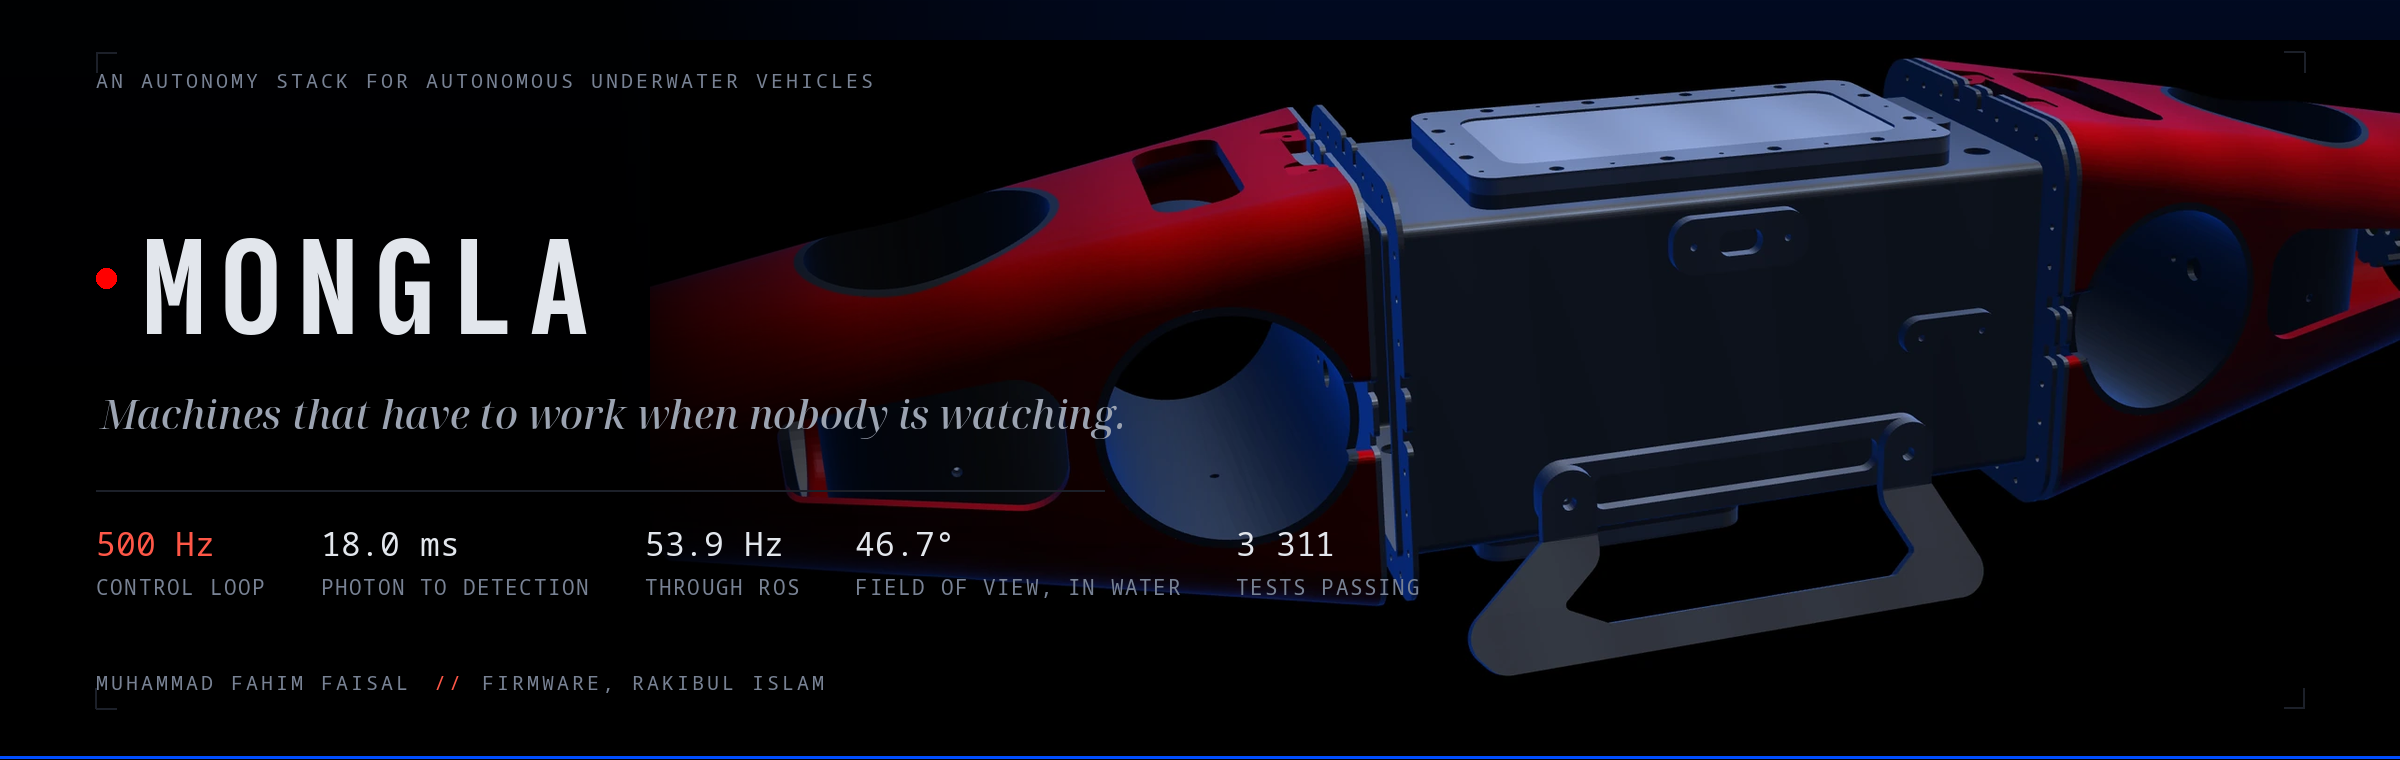
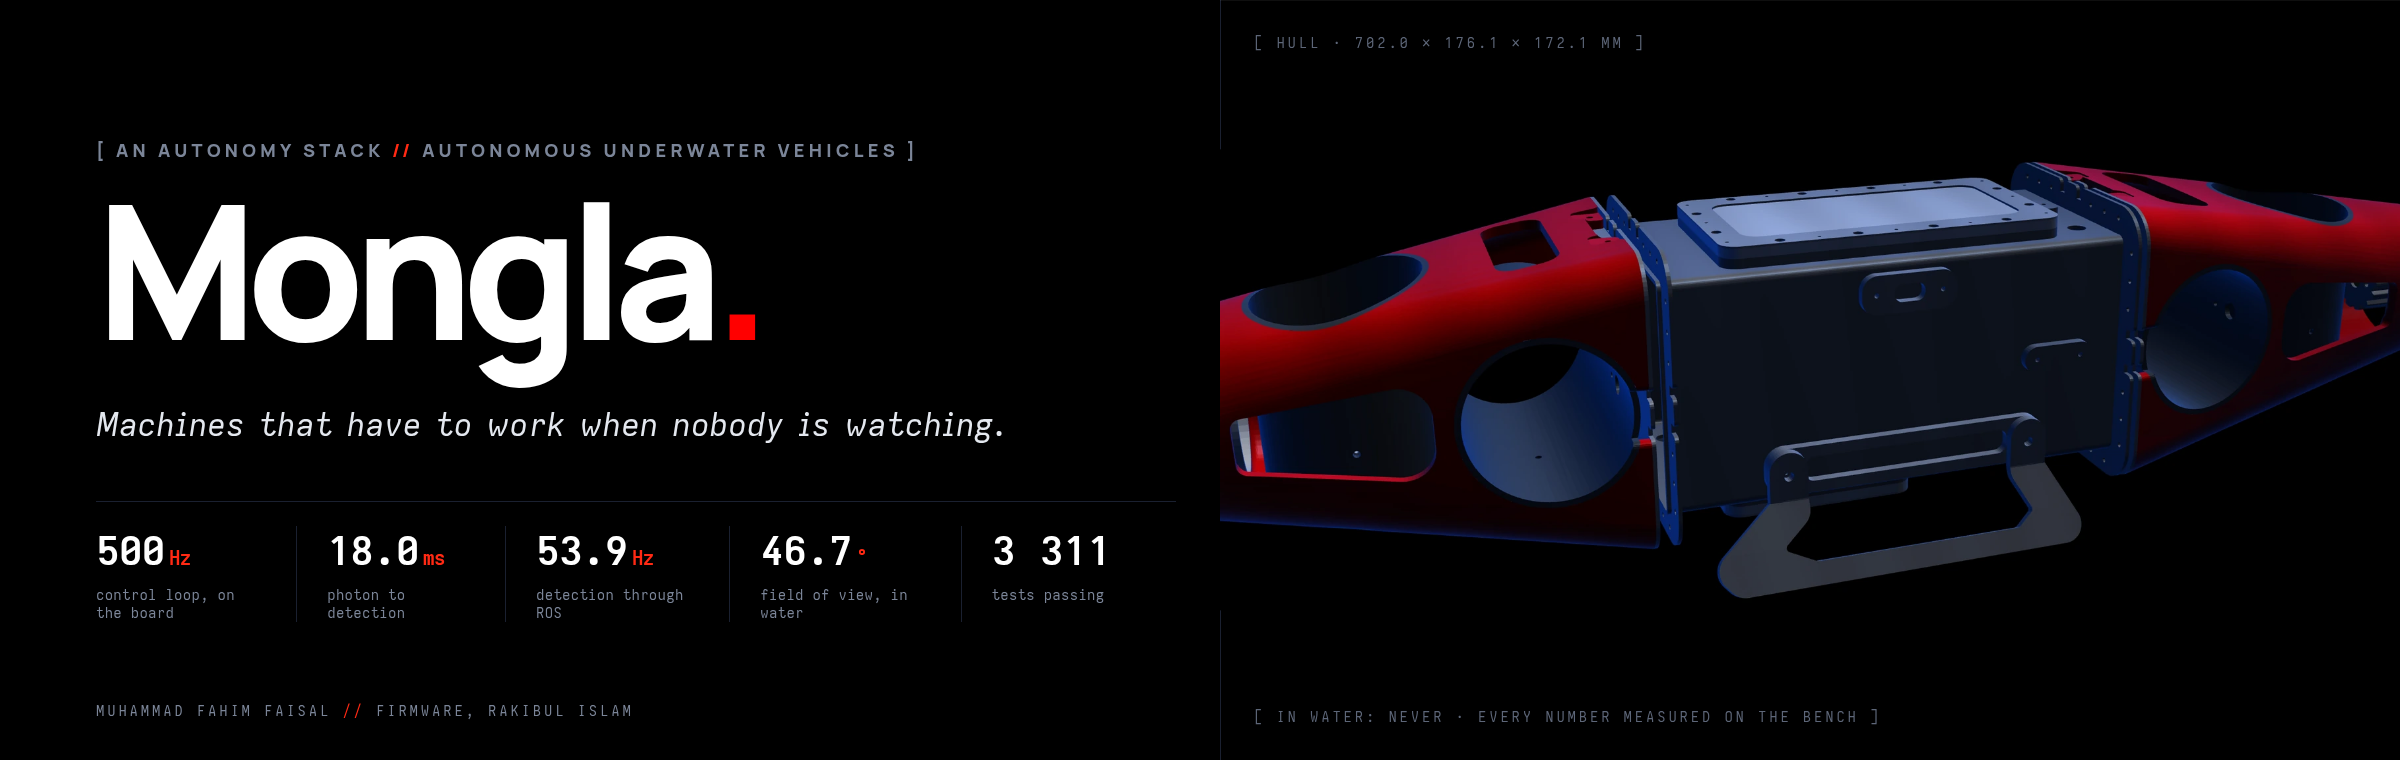
fix(site): the flagship code sample used an axis the board refuses
The mission-language section's example passed depth=0 to vision.align. On the
SROT backend a depth-setpoint axis is refused (vision_verbs.py:350-360) and the
DSL turns that refusal into VisionResult(False, 'FAILED') — so the one code
sample a reader copies would have returned FAILED instantly on the real
vehicle. It now centres on lat and yaw, and says in a line beneath it how the
board runs it and what a refused axis comes back as.

Beside it, what actually comes back: a frame with the signed pixel offset
drawn from centre, and the six outcome codes, FAILED among them — refused or
errored, never raised.

New README banner, rendered from HTML by headless Chrome instead of hand-placed
in PIL: the real hull in a true-black bay, the site's own faces and bracketed
labels, and a light variant for GitHub light mode.

diff --git a/docs/index.html b/docs/index.html
@@ -921,9 +921,11 @@
   <p class="lede col quiet">One action, thirty verbs, two vision primitives. The vision verbs never
     raise — they return where and how they finished, so a mission branches on reality instead of on
     an exception.</p>
+  <div class="split">
+  <div>
   <pre><span class="c"># hold station on the target, then fire mid-hold — still correcting</span>
 <span class="k">res</span> = mongla.vision.align(
-    <span class="s">'hole'</span>, lat=<span class="s">0</span>, depth=<span class="s">0</span>,   <span class="c"># signed pixel offsets from frame centre</span>
+    <span class="s">'hole'</span>, lat=<span class="s">0</span>, yaw=<span class="s">0</span>,     <span class="c"># centre it: signed px from frame centre</span>
     fwd=<span class="s">62</span>, fwd_mode=<span class="s">'area'</span>,  <span class="c"># and hold this standoff</span>
     hold=<span class="s">4.0</span>, fire=<span class="s">[1, 2]</span>,    <span class="c"># two shots, spaced, each gated on a NEW frame</span>
     lock_on=<span class="k">True</span>, brake=<span class="k">False</span>,
@@ -933,6 +935,28 @@
     <span class="k">return</span> search_pattern(mongla)
 <span class="k">if</span> res.x_px &gt; <span class="s">0</span>:              <span class="c"># it ended right of centre, so recover right</span>
     mongla.move_right(duration=<span class="s">0.6</span>)</pre>
+  <p class="quiet" style="font-size:var(--fs-caption);margin-top:10px">On the board this runs as streamed <code>MANUAL_CONTROL</code> in STABILIZE; an axis that would move the depth setpoint is refused, and comes back as <code>FAILED</code> rather than an exception.</p>
+  </div>
+  <figure class="result" aria-label="What a vision verb returns">
+    <span class="silk silk--b">what comes back · VisionResult</span>
+    <div class="frame">
+      <i class="cx"></i><i class="cy"></i>
+      <b class="box"></b>
+      <u class="dx"></u><em class="lab">x_px = +62</em>
+    </div>
+    <p class="result__k">Signed pixels from frame <strong>centre</strong> at the last frame the
+      target was seen: +x right, +y below. <code>NaN</code> if it was never seen — which is why
+      <code>saw_target</code> is read first.</p>
+    <ol class="codes">
+      <li class="ok"><b>ALIGNED</b>goal reached</li>
+      <li><b>LOST</b>seen, then gone</li>
+      <li><b>TIMEOUT</b>out of time</li>
+      <li><b>NO_CAMERA</b>nothing to look with</li>
+      <li><b>ABORTED</b>stopped on purpose</li>
+      <li class="bad"><b>FAILED</b>refused or errored — never raised</li>
+    </ol>
+  </figure>
+  </div>
   <p class="quiet" style="font-size:.92rem;margin-top:14px;max-width:66ch">The comment on the
     eighth line is the whole philosophy compressed: a result that is <em>absent</em> must never be
     mistaken for a result that is <em>zero</em>. The full verb table is in

diff --git a/docs/assets/site.css b/docs/assets/site.css
@@ -1194,3 +1194,35 @@ footer p+p{opacity:.78;max-width:88ch;line-height:1.6}
 .pull em{font-style:normal;color:var(--signal-text)}
 .pull footer{margin-top:16px;font-family:var(--data);font-weight:400;font-size:var(--fs-caption);
   letter-spacing:.1em;text-transform:uppercase;color:var(--ink-3)}
+
+/* ── what a vision verb hands back ──────────────────────────────────── */
+.result{margin:0;padding:clamp(18px,2.4vw,26px);border-radius:14px;background:var(--s-raised);
+  box-shadow:var(--e2)}
+.result .silk{font-family:var(--display);font-weight:800;font-size:var(--fs-micro);letter-spacing:.14em;
+  text-transform:uppercase;color:var(--ink-3);display:block;margin-bottom:12px}
+.result .frame{position:relative;aspect-ratio:4/3;border-radius:8px;background:var(--s-sunk);
+  box-shadow:var(--e-well);overflow:hidden}
+.result .frame i,.result .frame b,.result .frame u,.result .frame em{position:absolute;display:block}
+.result .cx{left:50%;top:0;bottom:0;width:1px;background:var(--rule-lit)}
+.result .cy{top:50%;left:0;right:0;height:1px;background:var(--rule-lit)}
+.result .box{left:calc(50% + 62px - 34px);top:calc(50% - 30px);width:68px;height:52px;border-radius:4px;
+  box-shadow:inset 0 0 0 1.5px var(--medium-text)}
+.result .dx{left:50%;top:calc(50% + 34px);width:62px;height:2px;background:var(--signal)}
+.result .dx::after{content:"";position:absolute;right:-1px;top:-3px;border:4px solid transparent;
+  border-left:6px solid var(--signal);border-right:0}
+.result .lab{left:calc(50% + 4px);top:calc(50% + 42px);font-style:normal;font-family:var(--data);
+  font-size:11px;color:var(--signal-text)}
+.result__k{margin:12px 0 14px;font-size:var(--fs-caption);color:var(--ink-3);line-height:1.55}
+.codes{list-style:none;margin:0;padding:0;display:grid;grid-template-columns:1fr 1fr;gap:6px}
+.codes li{padding:8px 10px;border-radius:7px;background:var(--s-sunk);box-shadow:var(--e-in);
+  font-size:11px;color:var(--ink-3);line-height:1.35}
+.codes b{display:block;font-family:var(--data);font-size:11.5px;color:#fff;margin-bottom:2px}
+.codes .ok b{color:var(--state-water)} .codes .bad b{color:var(--signal-text)}
+
+/* every horizontal scroller on the page gets the page's own scrollbar, not
+   the browser's white default */
+pre,.scrollable,.tw{scrollbar-width:thin;scrollbar-color:var(--rule-lit) transparent}
+pre::-webkit-scrollbar,.scrollable::-webkit-scrollbar{height:6px}
+pre::-webkit-scrollbar-thumb,.scrollable::-webkit-scrollbar-thumb{background:var(--rule-lit);border-radius:3px}
+pre::-webkit-scrollbar-track,.scrollable::-webkit-scrollbar-track{background:transparent}
+.split pre{font-size:11.5px}

diff --git a/tools/make_banner.py b/tools/make_banner.py
@@ -1,140 +1,135 @@
 #!/usr/bin/env python3
-"""Compose the README banner from the real CAD render and the real palette.
+"""The README banner: the real hull, the real palette, rendered by a browser.
 
-The previous banner was an illustration of a vehicle that does not exist, with
-the retired project name set into the artwork. This one uses the hull as built,
-rendered by tools/pack_hull.py + the site's viewer, and every colour is the
-palette sampled from the CAD's own materials.
+The first banner drew a vehicle that does not exist. The second was laid out by
+hand in PIL, which meant every kerning decision was a magic number and the type
+never matched the site. This one is HTML -- the same faces, the same palette,
+the same bracketed labels as docs/assets/site.css -- screenshotted by headless
+Chrome at an exact pixel size. What the README shows is what a browser drew
+from the design system.
 
-Sized 2400x760. GitHub renders a README on a near-black page, so the canvas is
-black with no border of its own — it sits on the page rather than on top of it.
+Two variants, because GitHub has a light mode and a banner that assumes dark
+puts black type on black for half its readers:
+
+    docs/imgs/mongla-banner.png        dark   2400x760
+    docs/imgs/mongla-banner-light.png  light  2400x760
+
+The README chooses between them with <picture> + prefers-color-scheme.
 
     python3 tools/make_banner.py
 """
-import pathlib, sys
-from PIL import Image, ImageDraw, ImageFont
+from __future__ import annotations
 
-REPO = pathlib.Path(__file__).resolve().parent.parent
+import shutil
+import subprocess
+import sys
+import tempfile
+from pathlib import Path
+
+REPO = Path(__file__).resolve().parents[1]
+OUT_DARK = REPO / 'docs' / 'imgs' / 'mongla-banner.png'
+OUT_LIGHT = REPO / 'docs' / 'imgs' / 'mongla-banner-light.png'
+RENDER = REPO / 'docs' / 'imgs' / 'cad' / 'mongla-quarter-aft.webp'
+FONTS = REPO / 'docs' / 'assets' / 'fonts'
 W, H = 2400, 760
 
-VOID = (0, 0, 0)
-INK = (226, 230, 236)
-INK2 = (155, 163, 177)
-INK3 = (120, 130, 148)
-RED = (255, 0, 0)
-RED_LIT = (255, 87, 71)
-OCEAN = (0, 78, 255)
-OCEAN_LIT = (90, 141, 255)
-RULE = (28, 32, 41)
-
-F_DISPLAY = "/usr/local/share/fonts/TTF/IosevkaNerdFont-ExtraBold.ttf"
-F_MONO = "/usr/local/share/fonts/noto/NotoSansMono-Regular.ttf"
-F_SERIF = "/usr/local/share/fonts/noto/NotoSerifDisplay-MediumItalic.ttf"
+# the render's own ground is pure black, so the bay is too -- any other value
+# draws the image's rectangle as a visible box
+# every figure is measured; each one is in .claude/context/measured-bars.md
+CHIPS = [('500', 'Hz', 'control loop, on the board'),
+         ('18.0', 'ms', 'photon to detection'),
+         ('53.9', 'Hz', 'detection through ROS'),
+         ('46.7', '°', 'field of view, in water'),
+         ('3\u202f311', '', 'tests passing')]
 
 
-def font(path, size):
-    for p in (path, "/usr/share/fonts/truetype/dejavu/DejaVuSans.ttf"):
-        try:
-            return ImageFont.truetype(p, size)
-        except OSError:
-            continue
-    return ImageFont.load_default()
+def page(dark: bool) -> str:
+    ink = '#e4e8ef' if dark else '#14161c'
+    ink3 = '#7b8598' if dark else '#646d7b'
+    strong = '#ffffff' if dark else '#0a0d12'
+    field = '#000000' if dark else '#f4f5f6'
+    rule = '#1a2030' if dark else '#d5d8dd'
+    fonts = FONTS.as_uri()
+    chips = ''.join(
+        f'<div class="chip"><b>{v}<u>{u}</u></b><span>{lab}</span></div>' for v, u, lab in CHIPS)
+    return f'''<!doctype html><meta charset="utf-8">
+<style>
+@font-face{{font-family:"Manrope";src:url("{fonts}/manrope-latin.woff2") format("woff2");
+  font-weight:200 800;font-display:block}}
+@font-face{{font-family:"Zed Mono";src:url("{fonts}/zed-mono-extended.woff2") format("woff2");
+  font-weight:400;font-display:block}}
+@font-face{{font-family:"Zed Mono";src:url("{fonts}/zed-mono-extendedbold.woff2") format("woff2");
+  font-weight:700;font-display:block}}
+@font-face{{font-family:"Zed Sans";src:url("{fonts}/zed-sans-extendeditalic.woff2") format("woff2");
+  font-weight:400;font-style:italic;font-display:block}}
+*{{box-sizing:border-box;margin:0}}
+html,body{{width:{W}px;height:{H}px;overflow:hidden}}
+body{{position:relative;background:{field};color:{ink};font-family:"Zed Mono",monospace}}
+/* the hull sits in its own dark bay: in light mode the render's black ground
+   becomes a deliberate instrument window instead of a mistake */
+.bay{{position:absolute;top:0;right:0;bottom:0;width:1180px;background:#000;overflow:hidden;
+  box-shadow:inset 0 1px 0 rgba(255,255,255,.06),inset 1px 0 0 {rule}}}
+.bay img{{position:absolute;right:-60px;top:50%;width:1320px;transform:translateY(-50%)}}
+.bay .tick{{position:absolute;left:34px;font-size:14px;letter-spacing:.2em;color:#5d6678;
+  text-transform:uppercase}}
+.t1{{top:34px}} .t2{{bottom:34px}}
+.left{{position:absolute;left:96px;top:0;bottom:0;width:1080px;display:flex;flex-direction:column;
+  justify-content:center}}
+.tag{{font-family:"Manrope";font-weight:800;font-size:18px;letter-spacing:.24em;
+  text-transform:uppercase;color:{ink3}}}
+.tag i{{font-style:normal;color:#ff2a14}}
+h1{{font-family:"Manrope";font-weight:800;font-size:188px;line-height:.84;letter-spacing:-.058em;
+  margin-top:28px;color:{strong}}}
+h1 em{{font-style:normal;color:#ff0000}}
+.sub{{font-family:"Zed Sans";font-style:italic;font-size:31px;line-height:1.3;margin-top:58px;color:{ink}}}
+.chips{{display:flex;margin-top:54px;padding-top:24px;border-top:1px solid {rule}}}
+.chip{{padding-right:30px;margin-right:30px;border-right:1px solid {rule}}}
+.chip:last-child{{border-right:0}}
+
+.chip b{{display:block;white-space:nowrap;font-weight:700;font-size:40px;letter-spacing:-.03em;color:{strong}}}
+.chip u{{text-decoration:none;color:#ff2a14;font-size:.5em;margin-left:.22em}}
+.chip span{{display:block;margin-top:10px;font-size:14px;letter-spacing:.02em;color:{ink3};max-width:190px}}
+.foot{{position:absolute;left:96px;bottom:40px;font-size:14px;letter-spacing:.2em;
+  text-transform:uppercase;color:{ink3}}}
+.foot i{{font-style:normal;color:#ff2a14}}
+</style>
+<div class="bay"><img src="{RENDER.as_uri()}" alt="">
+  <span class="tick t1">[ hull · 702.0 × 176.1 × 172.1 mm ]</span>
+  <span class="tick t2">[ in water: never · every number measured on the bench ]</span></div>
+<div class="left">
+  <div class="tag">[ an autonomy stack <i>//</i> autonomous underwater vehicles ]</div>
+  <h1>Mongla<em>.</em></h1>
+  <p class="sub">Machines that have to work when nobody is watching.</p>
+  <div class="chips">{chips}</div>
+</div>
+<div class="foot">Muhammad Fahim Faisal <i>//</i> firmware, Rakibul Islam</div>
+'''
 
 
-def tracked(d, xy, text, f, fill, tracking=0):
-    """Draw text with letter-spacing; PIL has none of its own."""
-    x, y = xy
-    for ch in text:
-        d.text((x, y), ch, font=f, fill=fill)
-        x += d.textlength(ch, font=f) + tracking
-    return x - xy[0]
+def shoot(html: str, out: Path) -> None:
+    chrome = shutil.which('google-chrome-stable') or shutil.which('google-chrome')
+    if not chrome:
+        raise SystemExit('google-chrome not found; cannot render the banner')
+    with tempfile.TemporaryDirectory() as td:
+        src = Path(td) / 'banner.html'
+        src.write_text(html, encoding='utf-8')
+        subprocess.run([chrome, '--headless=new', '--disable-gpu', '--hide-scrollbars',
+                        '--allow-file-access-from-files', '--force-device-scale-factor=1',
+                        f'--window-size={W},{H}', f'--screenshot={out}',
+                        f'--user-data-dir={td}/profile', '--virtual-time-budget=5000',
+                        src.as_uri()],
+                       check=True, capture_output=True, timeout=120)
+    print(f'{out.relative_to(REPO)}  {out.stat().st_size // 1024} KB')
 
 
-def tracked_width(d, text, f, tracking=0):
-    return sum(d.textlength(c, font=f) + tracking for c in text) - tracking
+def main() -> int:
+    if not RENDER.exists():
+        print(f'missing {RENDER}', file=sys.stderr)
+        return 2
+    shoot(page(dark=True), OUT_DARK)
+    shoot(page(dark=False), OUT_LIGHT)
+    return 0
 
 
-def main():
-    img = Image.new("RGB", (W, H), VOID)
-
-    # a shallow column of water behind everything, brighter at the surface
-    grad = Image.new("L", (1, H))
-    for y in range(H):
-        t = y / H
-        grad.putpixel((0, y), int(26 * (1 - t) ** 2))
-    wash = Image.merge("RGB", [grad.resize((W, H)).point(lambda v: int(v * c / 26))
-                               for c in (2, 10, 34)])
-    img = Image.blend(img, wash, 1.0)
-
-    # the hull, as built, bleeding off the right edge
-    render = REPO / "docs/imgs/cad/mongla-quarter-aft.webp"
-    if render.exists():
-        hull = Image.open(render).convert("RGBA")
-        scale = (H * 0.86) / hull.height
-        hull = hull.resize((int(hull.width * scale), int(hull.height * scale)), Image.LANCZOS)
-        img.paste(hull, (W - hull.width + 120, int(H * 0.50 - hull.height * 0.52)), hull)
-    else:
-        print(f"missing {render}", file=sys.stderr)
-
-    # a gradient scrim, not a rectangle: a hard edge at the boundary reads as a
-    # seam across the whole banner, which is exactly what the first pass did
-    scrim = Image.new("L", (W, 1))
-    for x in range(W):
-        t = min(max((x - 620) / 700.0, 0.0), 1.0)
-        scrim.putpixel((x, 0), int(238 * (1 - t) ** 1.5))
-    img.paste(Image.new("RGB", (W, H), VOID), (0, 0), scrim.resize((W, H)))
-
-    d = ImageDraw.Draw(img, "RGBA")
-
-    pad = 96
-    f_word = font(F_DISPLAY, 128)
-    f_tag = font(F_SERIF, 40)
-    f_lbl = font(F_MONO, 21)
-    f_num = font(F_MONO, 33)
-    f_sub = font(F_MONO, 20)
-
-    # corner registration ticks — the sheet knows it is a sheet
-    for cx, cy, dx, dy in ((pad, 52, 1, 1), (W - pad, 52, -1, 1),
-                           (pad, H - 52, 1, -1), (W - pad, H - 52, -1, -1)):
-        d.line([cx, cy, cx + 20 * dx, cy], fill=RULE, width=2)
-        d.line([cx, cy, cx, cy + 20 * dy], fill=RULE, width=2)
-
-    tracked(d, (pad, 66), "AN AUTONOMY STACK FOR AUTONOMOUS UNDERWATER VEHICLES", f_sub, INK3, 3.0)
-
-    # wordmark, with the hull's red as the live indicator
-    wy = 210
-    d.ellipse([pad, wy + 58, pad + 20, wy + 78], fill=RED)
-    tracked(d, (pad + 46, wy), "MONGLA", f_word, INK, 13.0)
-
-    d.text((pad + 4, wy + 176), "Machines that have to work when nobody is watching.",
-           font=f_tag, fill=INK2)
-
-    # the numbers, each one measured
-    readout = [("500 Hz", "control loop"), ("18.0 ms", "photon to detection"),
-               ("53.9 Hz", "through ROS"), ("46.7°", "field of view, in water"),
-               ("3 311", "tests passing")]
-    y0 = 520
-    d.line([pad, y0 - 30, 1104, y0 - 30], fill=RULE, width=2)
-    x = pad
-    for i, (num, lab) in enumerate(readout):
-        col = RED_LIT if i == 0 else INK
-        d.text((x, y0), num, font=f_num, fill=col)
-        tracked(d, (x, y0 + 52), lab.upper(), f_lbl, INK3, 1.6)
-        x += max(d.textlength(num, font=f_num),
-                 tracked_width(d, lab.upper(), f_lbl, 1.6)) + 56
-
-    tracked(d, (pad, H - 92), "MUHAMMAD FAHIM FAISAL", f_sub, INK3, 3.0)
-    w1 = tracked_width(d, "MUHAMMAD FAHIM FAISAL", f_sub, 3.0)
-    tracked(d, (pad + w1 + 26, H - 92), "//", f_sub, RED_LIT, 3.0)
-    tracked(d, (pad + w1 + 74, H - 92), "FIRMWARE, RAKIBUL ISLAM", f_sub, INK3, 3.0)
-
-    # one ocean hairline along the foot: the medium, under everything
-    d.line([0, H - 3, W, H - 3], fill=OCEAN, width=3)
-
-    out = REPO / "docs/imgs/mongla-banner.png"
-    img.save(out, "PNG", optimize=True)
-    print(f"wrote {out.relative_to(REPO)}  {out.stat().st_size // 1024} KB  {W}x{H}")
-
-
-if __name__ == "__main__":
-    main()
+if __name__ == '__main__':
+    sys.exit(main())
